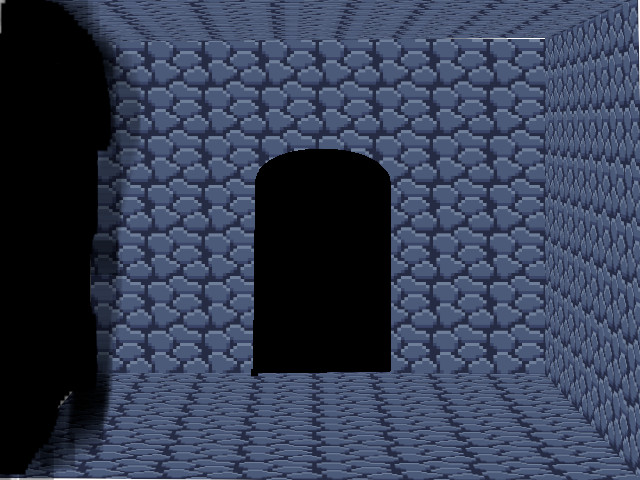
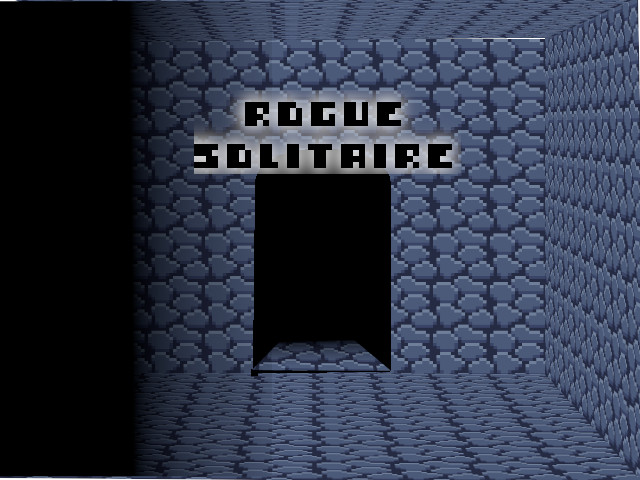
update several things
- tweak card generator

- add summary screen

- minor bugfix not triggering on player move on spike trap

- update opening screen page

Changed region(s): [[0.0, 0.0, 0.7188, 1.0], [0.0, 0.0, 0.0312, 0.0312]]

diff --git a/summaryscene.go b/summaryscene.go
@@ -1,0 +1,143 @@
+package main
+
+import (
+	"bytes"
+	_ "embed"
+	"fmt"
+	"image"
+
+	"github.com/hajimehoshi/ebiten/v2"
+	"github.com/hajimehoshi/ebiten/v2/ebitenutil"
+	"github.com/hajimehoshi/ebiten/v2/text/v2"
+	"github.com/joelschutz/stagehand"
+	"github.com/kharism/hanashi/core"
+)
+
+type SummaryScene struct {
+	director           *stagehand.SceneDirector[MyState]
+	knightAnim         *ebiten.Image
+	state              MyState
+	counter            int
+	visibleCoinCounter int
+	BackToMenu         MenuButton
+	PlayAgain          MenuButton
+}
+
+//go:embed assets/img/Knight_death.png
+var KnightDieAnim []byte
+var knightdieanim *ebiten.Image
+
+func (s *SummaryScene) Update() error {
+	s.counter += 1
+	if s.counter == 10 {
+		rect := image.Rectangle{Min: image.Point{64, 0}, Max: image.Point{64 * 2, 64}}
+		s.knightAnim = knightdieanim.SubImage(rect).(*ebiten.Image)
+	}
+	if s.counter == 20 {
+		rect := image.Rectangle{Min: image.Point{64 * 2, 0}, Max: image.Point{64 * 3, 64}}
+		s.knightAnim = knightdieanim.SubImage(rect).(*ebiten.Image)
+	}
+	if s.counter == 30 {
+		rect := image.Rectangle{Min: image.Point{64 * 3, 0}, Max: image.Point{64 * 4, 64}}
+		s.knightAnim = knightdieanim.SubImage(rect).(*ebiten.Image)
+	}
+	if s.counter >= 60 {
+		if s.visibleCoinCounter < s.state.Coin {
+			diff := s.state.Coin - s.visibleCoinCounter
+			if diff < 5 {
+				s.visibleCoinCounter += diff
+			} else {
+				s.visibleCoinCounter += 5
+			}
+
+		}
+	}
+	s.BackToMenu.Update()
+	s.PlayAgain.Update()
+	return nil
+}
+func (s *SummaryScene) DrawBgTile(screen *ebiten.Image) {
+	posX := 0
+	posY := 0
+	opt := ebiten.DrawImageOptions{}
+	for i := 0; i < 10; i++ {
+		posX = 0
+		for j := 0; j < 10; j++ {
+			opt.GeoM.Reset()
+			opt.GeoM.Translate(float64(posX), float64(posY))
+			screen.DrawImage(tileImg, &opt)
+			posX += 64
+		}
+		posY += 64
+	}
+}
+func (m *SummaryScene) DrawInfoBg2(screen *ebiten.Image) {
+	opts := ebiten.DrawImageOptions{}
+	opts.GeoM.Scale(2, 1)
+
+	opts.GeoM.Translate(80, 20)
+	screen.DrawImage(infobg, &opts)
+	opts.GeoM.Reset()
+
+	opts.GeoM.Scale(2, -1)
+	opts.GeoM.Translate(80, 400)
+	screen.DrawImage(infobg, &opts)
+	midPart := infobg.SubImage(image.Rect(0, 20, 251, 30))
+	opts.GeoM.Reset()
+	opts.GeoM.Scale(2, 33)
+	opts.GeoM.Translate(80, 40)
+	screen.DrawImage(midPart.(*ebiten.Image), &opts)
+
+}
+func (s *SummaryScene) Draw(screen *ebiten.Image) {
+	s.DrawBgTile(screen)
+	s.DrawInfoBg2(screen)
+	drwOpt := ebiten.DrawImageOptions{}
+	drwOpt.GeoM.Translate(140, 90)
+	screen.DrawImage(s.knightAnim, &drwOpt)
+	drwOpt.GeoM.Reset()
+	drwOpt.GeoM.Translate(210, 90)
+	screen.DrawImage(coinImg, &drwOpt)
+	txtDrawOpt := text.DrawOptions{}
+	txtDrawOpt.PrimaryAlign = text.AlignStart
+	txtDrawOpt.GeoM.Translate(260, 110)
+	text.Draw(screen, fmt.Sprintf("%d", s.visibleCoinCounter), face, &txtDrawOpt)
+
+	s.BackToMenu.Draw(screen)
+	s.PlayAgain.Draw(screen)
+}
+
+func (s *SummaryScene) Load(state MyState, director stagehand.SceneController[MyState]) {
+	s.director = director.(*stagehand.SceneDirector[MyState]) // This type assertion is important
+	reader := bytes.NewReader(KnightDieAnim)
+	knightdieanim, _, _ = ebitenutil.NewImageFromReader(reader)
+	rect := image.Rectangle{Min: image.Point{0, 0}, Max: image.Point{64, 64}}
+	s.knightAnim = knightdieanim.SubImage(rect).(*ebiten.Image)
+	s.state = state
+	s.counter = 0
+	s.visibleCoinCounter = 0
+
+	s.BackToMenu = MenuButton{}
+	s.BackToMenu.MovableImage = core.NewMovableImage(BtnBg, core.NewMovableImageParams())
+	s.BackToMenu.Label = "To Menu"
+	s.BackToMenu.SetPos(230, 250)
+	s.BackToMenu.onClickFunc = func() {
+		s.director.ProcessTrigger(TriggerToMenu)
+	}
+
+	s.PlayAgain = MenuButton{}
+	s.PlayAgain.MovableImage = core.NewMovableImage(BtnBg, core.NewMovableImageParams())
+	s.PlayAgain.Label = "Play Again"
+	s.PlayAgain.SetPos(230, 290)
+	s.PlayAgain.onClickFunc = func() {
+		s.director.ProcessTrigger(TriggerToMain)
+	}
+
+}
+func (s *SummaryScene) Layout(outsideWidth, outsideHeight int) (screenWidth, screenHeight int) {
+	return 640, 480
+}
+func (s *SummaryScene) Unload() MyState {
+	// your unload code
+	return MyState{}
+}

diff --git a/mainscene.go b/mainscene.go
@@ -14,6 +14,7 @@ import (
 	"github.com/hajimehoshi/ebiten/v2/inpututil"
 	"github.com/hajimehoshi/ebiten/v2/text/v2"
 	"github.com/joelschutz/stagehand"
+	"github.com/kharism/hanashi/core"
 )
 
 //go:embed assets/img/infobg.png
@@ -41,6 +42,9 @@ type MainScene struct {
 	touchIDs      []ebiten.TouchID
 	zones         [3][3]*BaseCard
 	CurDesc       string
+
+	isDefeated      bool
+	defeatedCounter int // this counter is only used in animation when loosing
 }
 
 func NewMainScene() *MainScene {
@@ -89,6 +93,13 @@ func (m *MainScene) Update() error {
 			m.zones[idxY][idxX].OnClick(m)
 		}
 
+	}
+	if m.isDefeated {
+		m.defeatedCounter++
+	}
+	if m.defeatedCounter%60 == 59 {
+		// m.defeatedCounter = 0
+		m.director.ProcessTrigger(TriggerToSum)
 	}
 	cardIdx, cardIdy := PixelToIndex(mouseX, mouseY)
 	if cardIdx >= 0 && cardIdy >= 0 {
@@ -151,6 +162,16 @@ func (m *MainScene) DrawInfoBg(screen *ebiten.Image) {
 	opts.GeoM.Scale(1.2, 25)
 	opts.GeoM.Translate(bgInfoStartX, float64(bgInfoStartY)+35)
 	screen.DrawImage(midPart.(*ebiten.Image), &opts)
+
+}
+func (m *MainScene) OnDefeat() {
+	for idx1, _ := range m.zones {
+		for idx2, _ := range m.zones[idx1] {
+			scaleAnim := core.ScaleAnimation{Tsx: 0.1, Tsy: 0.1, SpeedX: -0.01, SpeedY: -0.01}
+			m.zones[idx1][idx2].AddAnimation(&scaleAnim)
+		}
+	}
+	m.isDefeated = true
 
 }
 func (m *MainScene) DrawInfoBg2(screen *ebiten.Image) {
@@ -224,7 +245,7 @@ func (s *MainScene) Load(state MyState, director stagehand.SceneController[MySta
 	// your load code
 	s.director = director.(*stagehand.SceneDirector[MyState]) // This type assertion is important
 	s.State = &state
-
+	s.isDefeated = false
 	BORDER_X = make([]int, 4)
 	BORDER_Y = make([]int, 4)
 	// s.zones[1][1]
@@ -240,12 +261,10 @@ func (s *MainScene) Load(state MyState, director stagehand.SceneController[MySta
 				s.Character = SwordedKnight.(*SwordChDecorator)
 				s.zones[idx][idx2] = NewBaseCard([]CardDecorator{SwordedKnight}).(*BaseCard)
 				s.CharacterCard = s.zones[idx][idx2]
-			} else if idx == 2 && idx2 == 2 {
-				s.zones[idx][idx2] = NewBaseCard([]CardDecorator{NewBombDecorator()}).(*BaseCard)
 			} else {
 				i := rand.Int() % 3
 				if i == 0 {
-					s.zones[idx][idx2] = NewBaseCard([]CardDecorator{NewLightPotionDecorator()}).(*BaseCard)
+					s.zones[idx][idx2] = NewBaseCard([]CardDecorator{NewSkeletonDecor()}).(*BaseCard)
 				} else if i == 1 {
 					// s.zones[idx][idx2] = NewBaseCard([]CardDecorator{NewBombDecorator()}).(*BaseCard)
 					// s.zones[idx][idx2] = NewBaseCard([]CardDecorator{NewSpikeTrapDecorator()}).(*BaseCard)
@@ -272,5 +291,5 @@ func (s *MainScene) Layout(outsideWidth, outsideHeight int) (screenWidth, screen
 }
 func (s *MainScene) Unload() MyState {
 	// your unload code
-	return MyState{}
+	return *s.State
 }

diff --git a/trapdecorator.go b/trapdecorator.go
@@ -56,10 +56,15 @@ func (t *SpikeTrapDecorator) OnClick(state *MainScene, source Card) {
 	state.zones[PLAYER_IDX_Y][PLAYER_IDX_X] = newCard.(*BaseCard)
 	PLAYER_IDX_X = idxX
 	PLAYER_IDX_Y = idxY
+	state.OnPlayerMove()
 }
 
 func NewSpikeTrapDecorator() CardDecorator {
-	return &SpikeTrapDecorator{CharacterDecorator: &CharacterDecorator{image: spike, Name: "Spike", Hp: 1, Description: "Do 1 Direct damage\nregardless of loadout"}}
+	return &SpikeTrapDecorator{CharacterDecorator: &CharacterDecorator{image: spike,
+		Name:        "Spike",
+		Hp:          1,
+		OnDefeat:    GenerateReward(1),
+		Description: "Do 1 Direct damage\nregardless of loadout"}}
 }
 
 type BombDecorator struct {
@@ -121,7 +126,7 @@ func (b *BombDecorator) OnClick(mainScene *MainScene, source Card) {
 	mainScene.OnPlayerMove()
 }
 func (b *BombDecorator) GetDescription() string {
-	return fmt.Sprintf("Bomb that will damage adjacent cards for 4\nWill explode in %d turn", b.TurnToExplode)
+	return fmt.Sprintf("Bomb that will damage\nadjacent cards for 4\nWill explode in %d turn", b.TurnToExplode)
 }
 
 // TODO: get index of certain
@@ -145,11 +150,11 @@ func (b *BombDecorator) OnPlayerMove(card Card, s *MainScene) {
 		posX, posY := IdxToPixel(cardX, cardY)
 		idxX, idxY := PixelToIndex(int(posX), int(posY))
 		adjacent := []*BaseCard{}
-		for i := idxY - 1; i < idxY+1; i++ {
+		for i := idxY - 1; i <= idxY+1; i++ {
 			if i < 0 || i > 2 {
 				continue
 			}
-			for j := idxX - 1; j < idxX+1; j++ {
+			for j := idxX - 1; j <= idxX+1; j++ {
 				if j < 0 || j > 2 {
 					continue
 				}
@@ -167,7 +172,7 @@ func (b *BombDecorator) OnPlayerMove(card Card, s *MainScene) {
 				// 	fmt.Println("DSDSDSD")
 				// }
 				if v, ok := s.zones[i][j].decorators[0].(CharacterInterface); ok {
-					fmt.Println(s.zones[i][j].decorators[0])
+					fmt.Println(s.zones[i][j].decorators[0].GetDescription())
 					v.TakeDirectDamage(4, s, s.zones[i][j])
 				}
 			}

diff --git a/main.go b/main.go
@@ -12,6 +12,7 @@ type Game struct{}
 const (
 	TriggerToMain stagehand.SceneTransitionTrigger = iota
 	TriggerToMenu
+	TriggerToSum
 )
 
 var knight CardDecorator
@@ -45,14 +46,22 @@ func main() {
 	state := MyState{
 		PlayerCharacter: NewKnightDecor(),
 	}
+	// state.Coin = 117
+	summary := &SummaryScene{}
 	trans := stagehand.NewSlideTransition[MyState](stagehand.LeftToRight, 0.05)
+	trans2 := stagehand.NewSlideTransition[MyState](stagehand.RightToLeft, 0.05)
+	trans3 := stagehand.NewFadeTransition[MyState](0.3)
 	// ruleSet := make(map[stagehand.Scene[MyState]][]stagehand.Directive[MyState])
 	ruleSet := map[stagehand.Scene[MyState]][]stagehand.Directive[MyState]{
 		menuScene: []stagehand.Directive[MyState]{
 			stagehand.Directive[MyState]{Dest: scene1, Trigger: TriggerToMain, Transition: trans},
 		},
 		scene1: []stagehand.Directive[MyState]{
-			stagehand.Directive[MyState]{Dest: menuScene, Trigger: TriggerToMenu, Transition: trans},
+			stagehand.Directive[MyState]{Dest: summary, Trigger: TriggerToSum, Transition: trans3},
+		},
+		summary: []stagehand.Directive[MyState]{
+			stagehand.Directive[MyState]{Dest: menuScene, Trigger: TriggerToMenu, Transition: trans2},
+			stagehand.Directive[MyState]{Dest: scene1, Trigger: TriggerToMain, Transition: trans3},
 		},
 	}
 	manager := stagehand.NewSceneDirector[MyState](menuScene, state, ruleSet)

diff --git a/cardgenerator.go b/cardgenerator.go
@@ -14,7 +14,7 @@ func init() {
 }
 func (g *cardGenerator) GenerateCard(ms *MainScene) Card {
 	baseCard := NewBaseCard([]CardDecorator{})
-	p := rand.Int() % 4
+	p := rand.Int() % 6
 	switch p {
 	case 0:
 		baseCard.AddDecorator(NewCoinDecorator())
@@ -39,6 +39,12 @@ func (g *cardGenerator) GenerateCard(ms *MainScene) Card {
 		baseCard.AddDecorator(NewSkeletonDecor())
 	case 3:
 		baseCard.AddDecorator(NewSwordDecorator())
+	case 4:
+		baseCard.AddDecorator(NewChestDecorator())
+	case 5:
+		decorators := []CardDecorator{NewBombDecorator(), NewSpikeTrapDecorator()}
+		decor := decorators[rand.Int()%len(decorators)]
+		baseCard.AddDecorator(decor)
 	}
 	return baseCard
 }

diff --git a/characterdecorator.go b/characterdecorator.go
@@ -7,7 +7,6 @@ import (
 	_ "image/png"
 	"log"
 	"math/rand"
-	"os"
 
 	"github.com/hajimehoshi/ebiten/v2"
 	"github.com/hajimehoshi/ebiten/v2/ebitenutil"
@@ -110,8 +109,9 @@ func NewKnightDecor() CardDecorator {
 
 	return &CharacterDecorator{Hp: 10, image: knightImg, Name: "Knight", OnClickFunc: func(s *MainScene, c Card) {
 
-	}, OnDefeat: func(*MainScene, Card) {
-		os.Exit(0)
+	}, OnDefeat: func(scene *MainScene, h Card) {
+		// os.Exit(0)
+		scene.OnDefeat()
 	}, Description: "Your Character"}
 }
 

diff --git a/chestdecorator.go b/chestdecorator.go
@@ -81,6 +81,8 @@ func (c *ChestDecorator) OnClick(mainScene *MainScene, source Card) {
 	c.isAnim = true
 	c.dropResource = func() {
 		source.RemoveDecorator(c)
-		source.AddDecorator(NewLightPotionDecorator())
+		decor := rwdGenerator.GenerateReward(0)
+		source.AddDecorator(decor)
 	}
+	mainScene.OnPlayerMove()
 }

diff --git a/card.go b/card.go
@@ -101,6 +101,7 @@ func NewBaseCard(decorators []CardDecorator) Card {
 	c := &BaseCard{}
 	c.decorators = decorators
 	param := core.MovableImageParams{}
+	param.WithScale(&core.ScaleParam{Sx: 1, Sy: 1})
 	c.MovableImage = core.NewMovableImage(c.GetImage(), &param)
 	return c
 }
